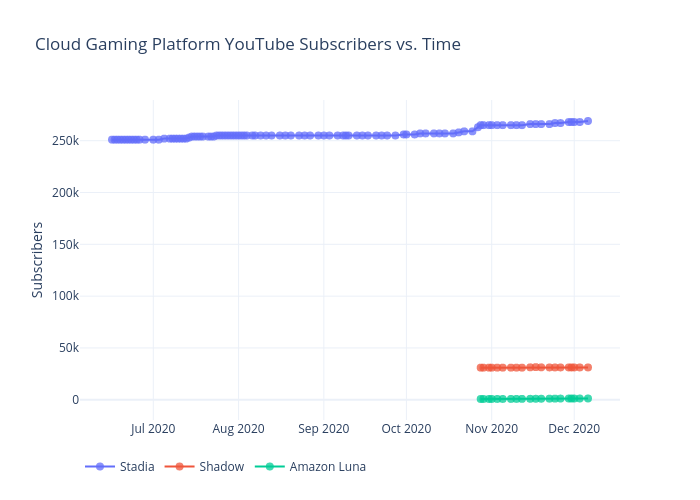
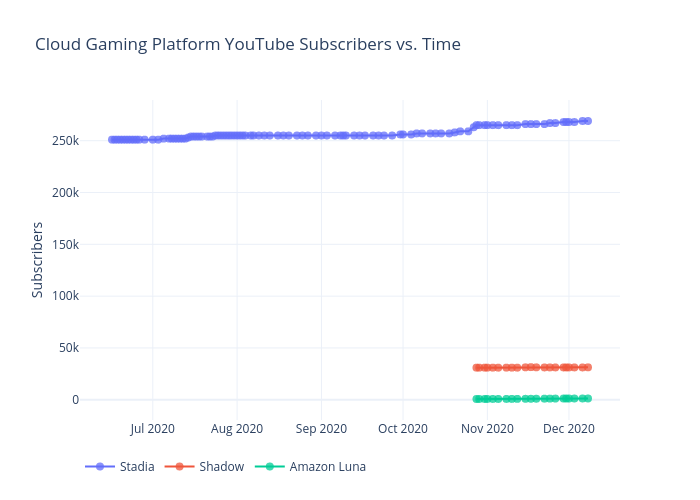
Add files via upload
Tuesday Data

diff --git a/youtube_platforms/figure.js b/youtube_platforms/figure.js
@@ -230,6 +230,7 @@ var figure = {
                 "268000",
                 "268000",
                 "268000",
+                "269000",
                 "269000"
             ],
             "marker": {
@@ -469,7 +470,8 @@ var figure = {
                 "31200",
                 "31200",
                 "31200",
-                "31200"
+                "31200",
+                "31300"
             ],
             "marker": {
                 "size": 8,
@@ -708,7 +710,8 @@ var figure = {
                 "1210",
                 "1210",
                 "1230",
-                "1250"
+                "1250",
+                "1260"
             ],
             "marker": {
                 "size": 8,
@@ -725,8 +728,8 @@ var figure = {
         "xaxis": {
             "type": "date",
             "range": [
-                "2020-06-05 03:48:08.3882",
-                "2020-12-16 20:11:51.6118"
+                "2020-06-05 00:47:39.3522",
+                "2020-12-18 23:12:20.6478"
             ],
             "title": {
                 "text": ""
@@ -736,8 +739,8 @@ var figure = {
         "yaxis": {
             "type": "linear",
             "range": [
-                -20831.5618556701,
-                290582.5618556701
+                -17698.300571156593,
+                287449.3005711566
             ],
             "title": {
                 "text": "Subscribers"
